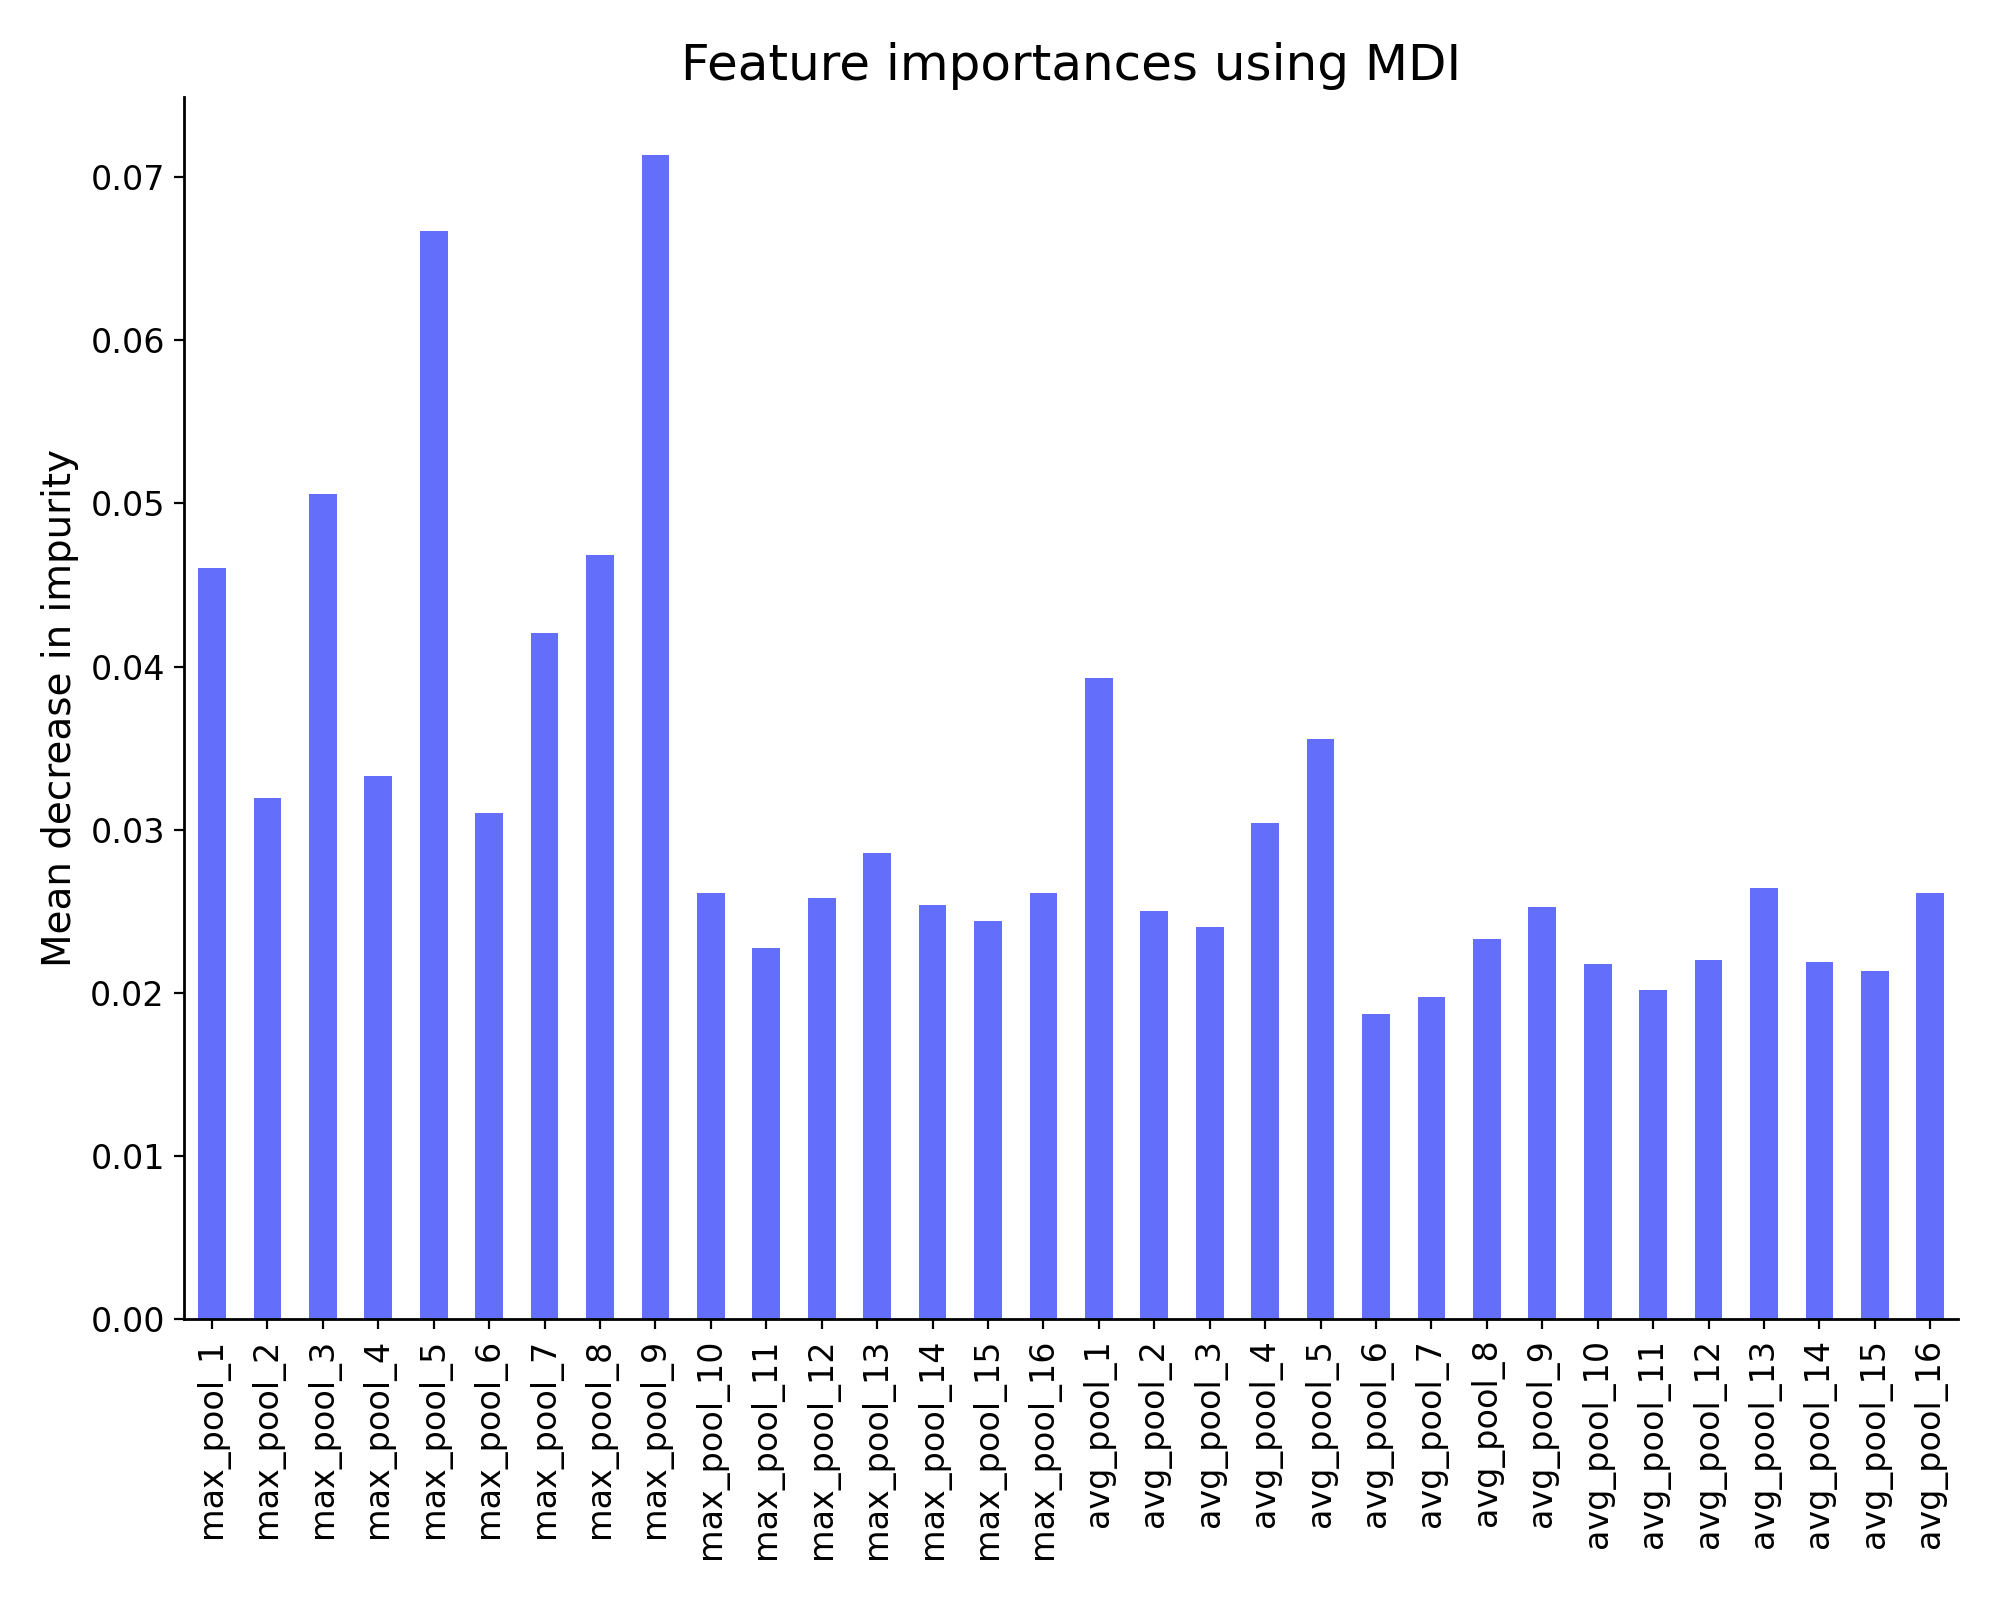
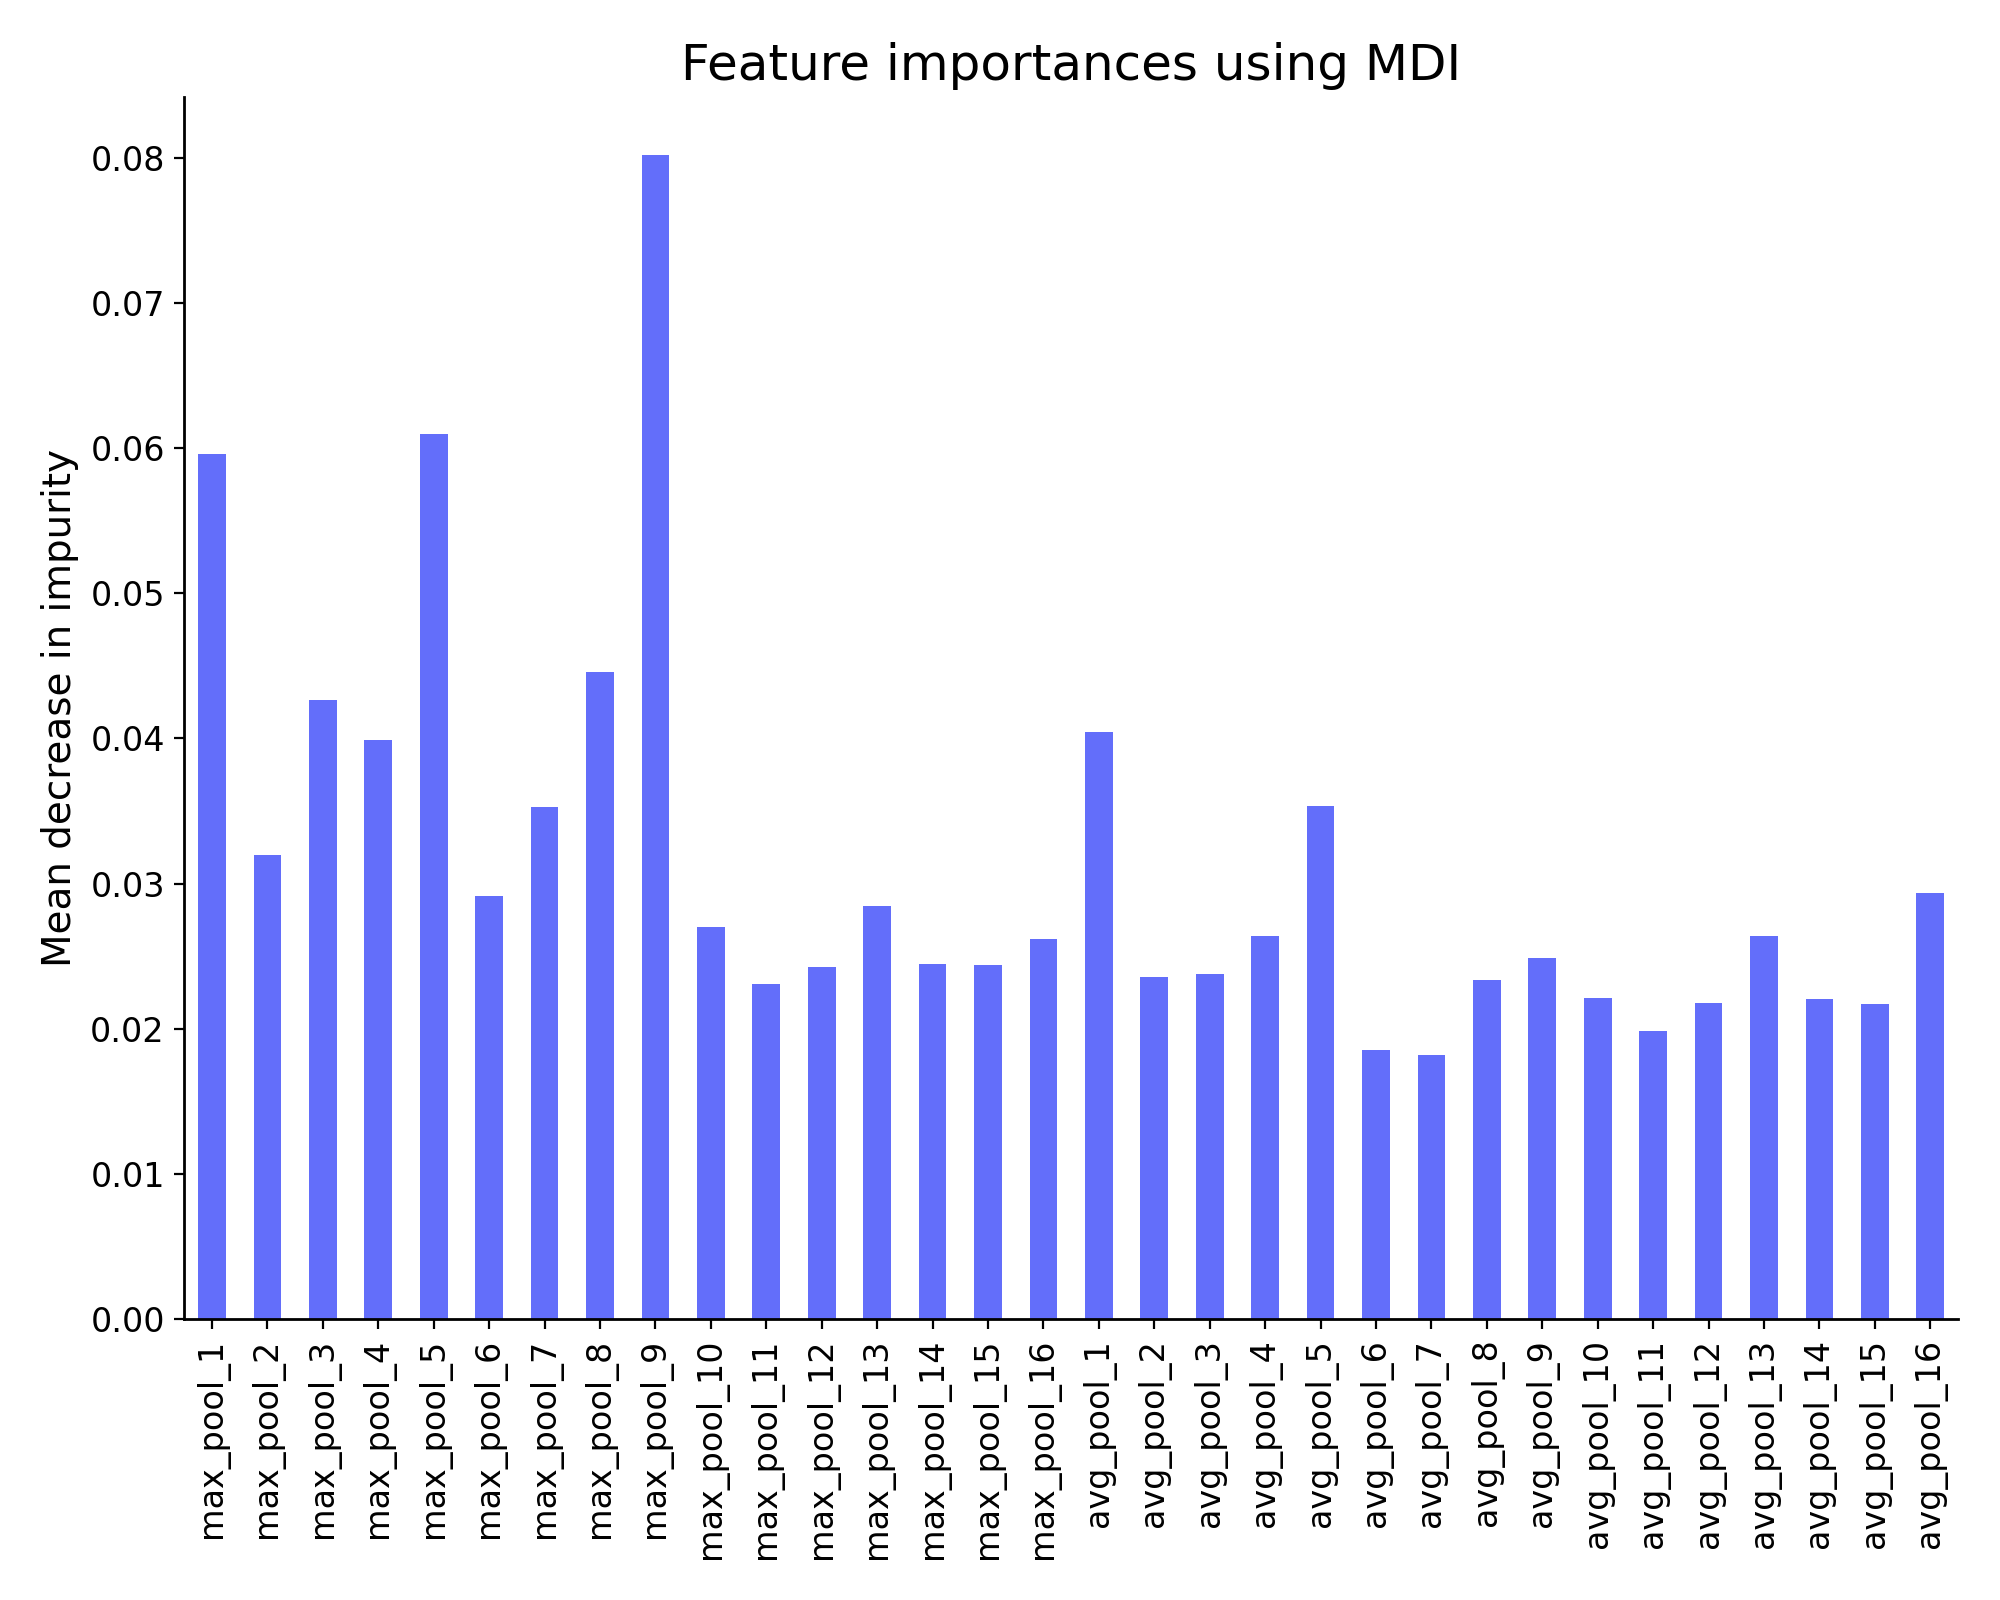
Add feature importance by permutation.

diff --git a/classical_ml.py b/classical_ml.py
@@ -11,6 +11,7 @@ from sklearn.model_selection import train_test_split
 from sklearn.linear_model import LogisticRegression
 from sklearn.ensemble import RandomForestClassifier
 from sklearn import metrics
+from sklearn.inspection import permutation_importance
 from xgboost import XGBClassifier
 
 plt.style.use("/Users/lakshyamalhotra/plt_custom.mplstyle")
@@ -34,7 +35,7 @@ if __name__ == "__main__":
     # logistic regression
     print()
     print()
-    lr = LogisticRegression(max_iter=1000, n_jobs=-1)
+    lr = LogisticRegression(max_iter=1000, n_jobs=-1, random_state=23)
     lr.fit(X_train, y_train)
     y_train_lr = lr.predict_proba(X_train)
     y_pred_lr = lr.predict_proba(X_valid)
@@ -52,7 +53,7 @@ if __name__ == "__main__":
     # random forest
     print()
     print()
-    rf = RandomForestClassifier(n_jobs=-1)
+    rf = RandomForestClassifier(n_jobs=-1, random_state=23)
     rf.fit(X_train, y_train)
     y_train_rf = rf.predict_proba(X_train)
     y_pred_rf = rf.predict_proba(X_valid)
@@ -69,11 +70,22 @@ if __name__ == "__main__":
     importances_rf = rf.feature_importances_
     feature_importances_rf = pd.Series(importances_rf, index=features)
 
+    # random forest feature importance using feature permutation
+    result = permutation_importance(
+        rf, X_valid, y_valid, n_repeats=6, random_state=23, n_jobs=-1
+    )
+    feature_importances_rf_fp = pd.Series(
+        result.importances_mean, index=features
+    )
+
     # XGBoost
     print()
     print()
     xgb = XGBClassifier(
-        objective="binary:logistic", use_label_encoder=False, n_jobs=-1
+        objective="binary:logistic",
+        use_label_encoder=False,
+        n_jobs=-1,
+        random_state=23,
     )
     xgb.fit(X_train, y_train, eval_metric="logloss")
     y_train_xgb = xgb.predict_proba(X_train)
@@ -81,8 +93,8 @@ if __name__ == "__main__":
     y_pred_xgb_bin = xgb.predict(X_valid)
     roc_score_train_xgb = metrics.roc_auc_score(y_train, y_train_xgb[:, 1])
     roc_score_xgb = metrics.roc_auc_score(y_valid, y_pred_xgb[:, 1])
-    print(f"ROC score on training, XGBoost: {roc_score_train_rf}")
-    print(f"ROC score on validation, XGBoost: {roc_score_rf}")
+    print(f"ROC score on training, XGBoost: {roc_score_train_xgb}")
+    print(f"ROC score on validation, XGBoost: {roc_score_xgb}")
     cr_xgb = metrics.classification_report(
         y_valid, y_pred_xgb_bin, output_dict=True
     )
@@ -96,6 +108,13 @@ if __name__ == "__main__":
     feature_importances_rf.plot(kind="bar", figsize=(10, 8), ax=ax)
     ax.set_title("Feature importances using MDI")
     ax.set_ylabel("Mean decrease in impurity")
+    fig.tight_layout()
+    plt.show()
+
+    fig, ax = plt.subplots()
+    feature_importances_rf_fp.plot(kind="bar", figsize=(10, 8), ax=ax)
+    ax.set_title("Feature importances using feature permutation")
+    ax.set_ylabel("Mean accuracy decrease")
     fig.tight_layout()
     plt.show()
 
